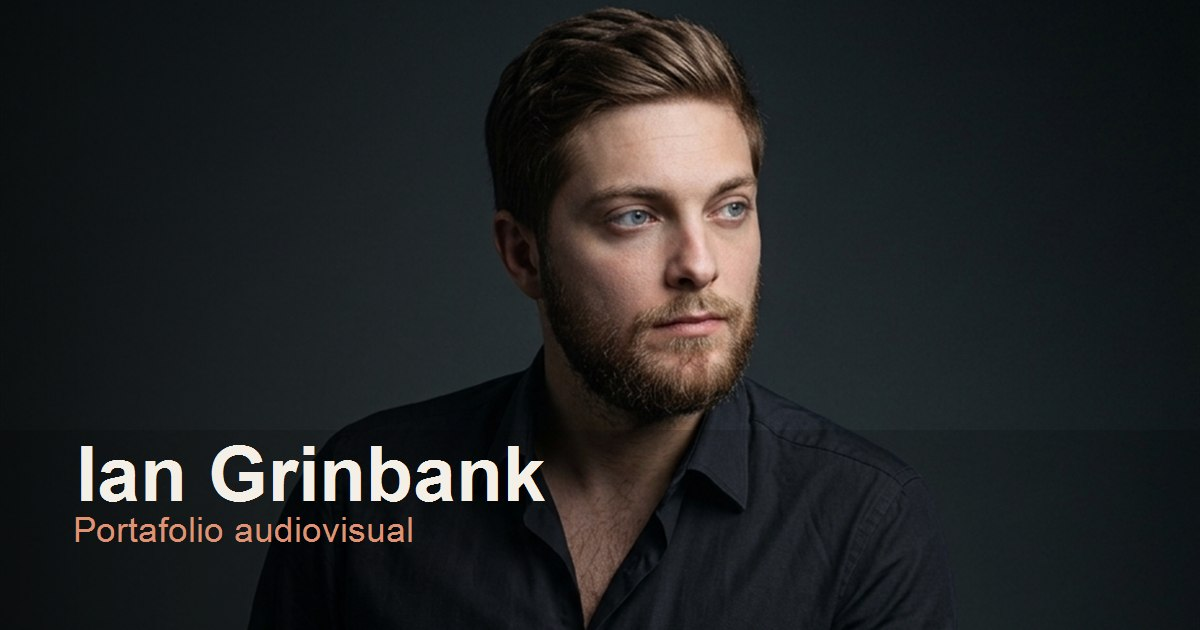
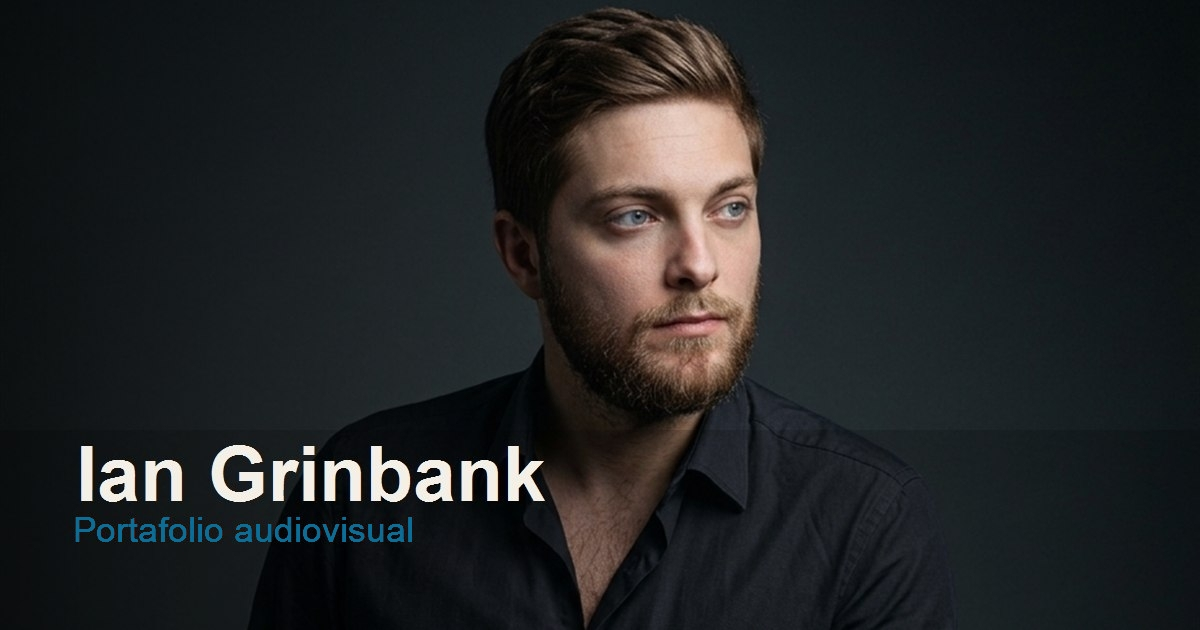
Actualiza identidad azul y modal móvil

Changed region(s): [[0.0617, 0.8143, 0.37, 0.8746]]

diff --git a/index.html b/index.html
@@ -4,24 +4,24 @@
     <meta charset="utf-8" />
     <meta name="viewport" content="width=device-width, initial-scale=1" />
     <title>Ian Grinbank | Portafolio</title>
-    <meta name="description" content="Portfolio de Ian Grinbank, Analista de Marketing, Content Creator y editor de video." />
+    <meta name="description" content="Portfolio de Ian Grinbank, Analista de Marketing, Content Creator, editor de video y especialista en soluciones integrales para eventos." />
     <link rel="canonical" href="https://ian-grinbank-portafolio.vercel.app/" />
     <meta property="og:type" content="website" />
     <meta property="og:site_name" content="Ian Grinbank | Portafolio" />
     <meta property="og:title" content="Ian Grinbank | Portafolio" />
-    <meta property="og:description" content="Portfolio de Ian Grinbank, Analista de Marketing, Content Creator y editor de video." />
-    <meta property="og:url" content="https://ian-grinbank-portafolio.vercel.app/?v=4" />
-    <meta property="og:image" content="https://ian-grinbank-portafolio.vercel.app/assets/social-preview.jpg?v=4" />
-    <meta property="og:image:url" content="https://ian-grinbank-portafolio.vercel.app/assets/social-preview.jpg?v=4" />
-    <meta property="og:image:secure_url" content="https://ian-grinbank-portafolio.vercel.app/assets/social-preview.jpg?v=4" />
+    <meta property="og:description" content="Portfolio de Ian Grinbank, Analista de Marketing, Content Creator, editor de video y especialista en soluciones integrales para eventos." />
+    <meta property="og:url" content="https://ian-grinbank-portafolio.vercel.app/?v=5" />
+    <meta property="og:image" content="https://ian-grinbank-portafolio.vercel.app/assets/social-preview.jpg?v=5" />
+    <meta property="og:image:url" content="https://ian-grinbank-portafolio.vercel.app/assets/social-preview.jpg?v=5" />
+    <meta property="og:image:secure_url" content="https://ian-grinbank-portafolio.vercel.app/assets/social-preview.jpg?v=5" />
     <meta property="og:image:type" content="image/jpeg" />
     <meta property="og:image:width" content="1200" />
     <meta property="og:image:height" content="630" />
     <meta property="og:image:alt" content="Retrato de Ian Grinbank" />
     <meta name="twitter:card" content="summary_large_image" />
     <meta name="twitter:title" content="Ian Grinbank | Portafolio" />
-    <meta name="twitter:description" content="Portfolio de Ian Grinbank, Analista de Marketing, Content Creator y editor de video." />
-    <meta name="twitter:image" content="https://ian-grinbank-portafolio.vercel.app/assets/social-preview.jpg?v=4" />
+    <meta name="twitter:description" content="Portfolio de Ian Grinbank, Analista de Marketing, Content Creator, editor de video y especialista en soluciones integrales para eventos." />
+    <meta name="twitter:image" content="https://ian-grinbank-portafolio.vercel.app/assets/social-preview.jpg?v=5" />
     <meta name="twitter:image:alt" content="Retrato de Ian Grinbank" />
     <link rel="preconnect" href="https://fonts.googleapis.com" />
     <link rel="preconnect" href="https://fonts.gstatic.com" crossorigin />
@@ -60,7 +60,7 @@
         <div class="hero-grid">
           <div class="hero-copy">
             <h1><span>Ian</span><span>Grinbank</span></h1>
-            <p class="hero-role">Analista de Marketing <span>•</span> Content Creator <span>•</span> Edición de video</p>
+            <p class="hero-role">Analista de Marketing <span>•</span> Content Creator <span>•</span> Edición de video <span>•</span> Solución Integral de Eventos</p>
             <p class="hero-text">¿Tenés clips guardados que podrían servir, pero todavía no tienen forma? Puedo revisar el material, elegir lo que suma y armar un video con un recorrido claro, <em>pensado para el lugar donde lo vas a publicar.</em></p>
             <div class="hero-actions">
               <a class="btn primary" href="#portfolio">Ver trabajos <span aria-hidden="true">↗</span></a>
@@ -185,7 +185,7 @@
 
     <footer>
       <p>Ian Grinbank</p>
-      <p>Analista de Marketing · Content Creator · Edición de video</p>
+      <p>Analista de Marketing · Content Creator · Edición de video · Solución Integral de Eventos</p>
       <a href="#inicio">Volver arriba ↑</a>
     </footer>
 

diff --git a/styles.css b/styles.css
@@ -8,8 +8,8 @@
   --surface: #ffffff;
   --dark: #0c0d10;
   --dark-panel: #15171c;
-  --accent: #ed7044;
-  --accent-soft: #ffe0d4;
+  --accent: #0C6D97;
+  --accent-soft: #d7ebf3;
   --blue: #286bff;
   --radius: 22px;
   --page-x: clamp(20px, 5vw, 76px);
@@ -24,8 +24,8 @@ body.dark-mode {
   --line: #303239;
   --panel: #191b20;
   --surface: #16181d;
-  --accent: #ff8a63;
-  --accent-soft: #49281f;
+  --accent: #0C6D97;
+  --accent-soft: #0b2f40;
   --shadow: 0 24px 70px rgba(0, 0, 0, 0.4);
 }
 
@@ -777,13 +777,40 @@ footer p:nth-child(2) { color: var(--muted); text-align: center; }
   .contact-signals { display: grid; }
   footer { align-items: start; grid-template-columns: 1fr; }
   footer p:nth-child(2) { text-align: left; }
-  .video-modal { padding: 8px; }
-  .video-dialog { border-radius: 15px; width: 100%; }
-  .video-modal-header { align-items: start; padding: 14px; }
+  .video-modal { padding: 6px; }
+  .video-dialog {
+    border-radius: 15px;
+    display: flex;
+    flex-direction: column;
+    max-height: calc(100dvh - 12px);
+    overflow: hidden;
+    width: calc(100vw - 12px);
+  }
+  .video-modal-header { align-items: start; flex: 0 0 auto; gap: 12px; padding: 12px 14px; }
+  .video-modal-header > div { min-width: 0; }
+  .video-modal-header h2 { font-size: clamp(.95rem, 4.7vw, 1.2rem); overflow-wrap: anywhere; }
   .modal-close { flex: 0 0 auto; height: 42px; width: 42px; }
-  .modal-nav { height: 42px; top: 61%; width: 42px; }
+  .video-stage {
+    aspect-ratio: auto;
+    flex: 0 1 auto;
+    height: min(68dvh, 125vw);
+    min-height: min(300px, 50dvh);
+    overflow: hidden;
+    width: 100%;
+  }
+  .video-stage video, .video-stage iframe { display: block; max-height: 100%; max-width: 100%; }
+  .modal-nav { height: 42px; top: 58%; width: 42px; }
   .modal-nav-prev { left: 8px; }
   .modal-nav-next { right: 8px; }
+}
+
+@media (max-width: 680px) and (max-height: 480px) {
+  .video-modal-header { align-items: center; padding: 8px 12px; }
+  .video-modal-header p { display: none; }
+  .video-modal-header h2 { font-size: .9rem; }
+  .modal-close { height: 36px; width: 36px; }
+  .video-stage { height: calc(100dvh - 64px); min-height: 0; }
+  .modal-nav { height: 38px; top: 56%; width: 38px; }
 }
 
 @media (prefers-reduced-motion: reduce) {

diff --git a/.codex/PROJECT_MEMORY.md b/.codex/PROJECT_MEMORY.md
@@ -4,11 +4,11 @@
 
 El nombre y título del portafolio es `Ian Grinbank | Portafolio`. El cliente indicó expresamente que no debe modificarse salvo nueva solicitud suya.
 
-La URL canónica es `https://ian-grinbank-portafolio.vercel.app/`. Para compartir en aplicaciones con caché de previews se usa actualmente `https://ian-grinbank-portafolio.vercel.app/?v=4`.
+La URL canónica es `https://ian-grinbank-portafolio.vercel.app/`. Para compartir en aplicaciones con caché de previews se usa actualmente `https://ian-grinbank-portafolio.vercel.app/?v=5`.
 
 ## Identidad y objetivo verificables
 
-El sitio comunica los servicios y trabajos de Ian Grinbank. La jerarquía profesional definida por el cliente es “Analista de Marketing, Content Creator y Edición de video”. El contenido visible afirma más de seis años de experiencia; esa afirmación ya existía y fue ratificada en el brief, pero no hay documentación adicional que la valide de forma independiente.
+El sitio comunica los servicios y trabajos de Ian Grinbank. La jerarquía profesional definida por el cliente es “Analista de Marketing, Content Creator, Edición de video y Solución Integral de Eventos”. El contenido visible afirma más de seis años de experiencia; esa afirmación ya existía y fue ratificada en el brief, pero no hay documentación adicional que la valide de forma independiente.
 
 El idioma del documento es `es-AR`. La propuesta central es adaptar la edición audiovisual al canal de publicación: redes, eventos, pantallas LED, producto y comunicación institucional/comercial.
 
@@ -54,6 +54,7 @@ La página tiene estas áreas:
 - Responsive mediante breakpoints CSS en 980 px y 640 px.
 - Metadatos Open Graph y Twitter para compartir.
 - Modal accesible con reproductor Drive `/preview`, carga diferida, controles, Escape, cierre por backdrop, bloqueo de scroll, foco restaurado y fallback. La abstracción mantiene soporte para `<video>` nativo futuro.
+- En móvil, el modal limita ancho y alto mediante unidades dinámicas de viewport y adapta la etapa de reproducción a orientación vertical u horizontal.
 - Menú responsive accesible bajo 900 px.
 - Fallback de visibilidad para `IntersectionObserver`, hash directo y movimiento reducido.
 

diff --git a/.codex/SESSION_SUMMARY.md b/.codex/SESSION_SUMMARY.md
@@ -17,7 +17,7 @@ Confirmar estos datos al iniciar la próxima sesión.
 
 ## Estado funcional reconstruido
 
-El producto sigue siendo un portfolio estático con HTML, CSS y JavaScript nativos. La identidad ahora prioriza Analista de Marketing, Content Creator y Edición de video. El hero oscuro conserva el título “Ian Grinbank” en gran escala, el texto introductorio solicitado y accesos a trabajos, correo e Instagram. La navegación interna tiene easing propio. Perfil usa pestañas verticales que actualizan un panel derecho. Marcas incorpora enlaces en los títulos y botones sociales mejorados. Incluye siete trabajos con reproducción interna, autoplay, navegación anterior/siguiente e iconos SVG adaptables; cuatro servicios en matriz editorial; soluciones integrales; y un Contacto guiado que prepara mensajes según el tipo de proyecto.
+El producto sigue siendo un portfolio estático con HTML, CSS y JavaScript nativos. La identidad prioriza Analista de Marketing, Content Creator, Edición de video y Solución Integral de Eventos, con `#0C6D97` como acento. El hero oscuro conserva el título “Ian Grinbank” en gran escala, el texto introductorio solicitado y accesos a trabajos, correo e Instagram. La navegación interna tiene easing propio. Perfil usa pestañas verticales que actualizan un panel derecho. Marcas incorpora enlaces en los títulos y botones sociales mejorados. Incluye siete trabajos con reproducción interna, autoplay, navegación anterior/siguiente, iconos SVG y modal adaptado a viewport móvil; cuatro servicios en matriz editorial; soluciones integrales; y un Contacto guiado que prepara mensajes según el tipo de proyecto.
 
 No existe backend, framework, sistema de paquetes, configuración de build, variables de entorno, pruebas ni CI.
 

diff --git a/.codex/CHANGELOG_AI.md b/.codex/CHANGELOG_AI.md
@@ -114,6 +114,14 @@ Este archivo registra tareas realizadas por Codex que cambian el árbol de traba
 **Vista previa social versionada:**
 
 - Se mantuvo `assets/social-preview.jpg` en 1200 × 630 como imagen horizontal de tarjeta grande.
-- La URL destinada a compartir pasó a `https://ian-grinbank-portafolio.vercel.app/?v=4` para invalidar la caché anterior de WhatsApp.
-- Open Graph y Twitter apuntan a `social-preview.jpg?v=4`; se agregaron canonical, `og:site_name`, `og:image:url` y `twitter:image:alt`.
+- La URL destinada a compartir pasó a `https://ian-grinbank-portafolio.vercel.app/?v=5` para invalidar la caché anterior de WhatsApp.
+- Open Graph y Twitter apuntan a `social-preview.jpg?v=5`; se agregaron canonical, `og:site_name`, `og:image:url` y `twitter:image:alt`.
 - El dominio limpio continúa siendo la URL canónica del sitio.
+
+**Acento azul, especialidad y modal móvil:**
+
+- El sistema de acento naranja se reemplazó por `#0C6D97`; los fondos suaves derivados se ajustaron para modo claro y oscuro.
+- El subtítulo naranja integrado en `assets/social-preview.jpg` se recoloreó al azul de marca sin cambiar fotografía, composición ni dimensiones (1200 × 630).
+- La jerarquía profesional visible pasó a “Analista de Marketing • Content Creator • Edición de video • Solución Integral de Eventos”, con actualización equivalente en footer y metadatos descriptivos.
+- En pantallas de hasta 680 px el modal usa ancho basado en viewport, alto máximo con `dvh`, layout flex y una etapa de video vertical flexible.
+- Para dispositivos de hasta 480 px de alto se reduce el header y la etapa usa el alto restante, contemplando celulares en orientación horizontal.

diff --git a/.codex/DECISIONS.md b/.codex/DECISIONS.md
@@ -142,6 +142,22 @@ Este registro reconstruye decisiones observables. Cuando el motivo no está docu
 
 **Consecuencia:** el nombre funciona como acceso oficial sin mostrar URLs, mientras los enlaces inferiores permanecen visibles como botones secundarios.
 
+## D-021 — Acento azul único
+
+**Estado:** vigente por instrucción explícita del cliente.
+
+**Evidencia:** `--accent` usa `#0C6D97` tanto en el tema claro como en el oscuro; `--accent-soft` conserva variantes de superficie adaptadas a cada tema.
+
+**Consecuencia:** todos los componentes que consumen los tokens de acento cambian coordinadamente sin reemplazos aislados.
+
+## D-022 — Modal móvil basado en viewport dinámico
+
+**Estado:** vigente.
+
+**Evidencia:** las reglas móviles usan `100dvh`, `100vw`, límites de altura y una variante combinada por ancho y alto.
+
+**Consecuencia:** el diálogo, encabezado, controles y área de reproducción permanecen dentro de la pantalla en móviles verticales y horizontales.
+
 ## D-016 — Navegación circular dentro del modal
 
 **Estado:** vigente.
